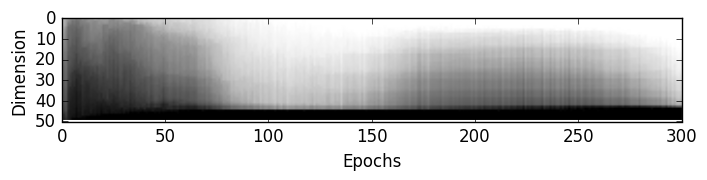
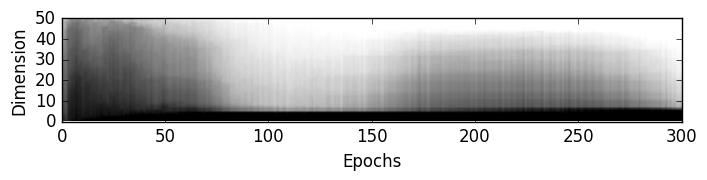
New plots

diff --git a/plots/img/Comparison of Bernoulli and Gaussian.tex b/plots/img/Comparison of Bernoulli and Gaussian.tex
@@ -1,2 +1,2 @@
 \begin{tikzpicture}\begin{semilogyaxis}    [% title={Comparison of Bernoulli and Gaussian},
-    xlabel={Epochs},ylabel={$\mathcal{L}(x)$},    xmin=0.0, xmax=330.0,ymin=97.5071673098, ymax=303.226411102,]    \addplot[color=red,]    coordinates {(0,275.660373729)(1,203.805626831)(2,197.088621965)(3,193.860160966)(4,190.477275141)(5,181.420335444)(6,171.883883612)(7,164.842395436)(8,159.827631531)(9,156.537046453)(10,153.416230358)(11,150.790747015)(12,148.685409352)(13,146.773726973)(14,145.1231652)(15,143.588252785)(16,142.036468894)(17,140.335153614)(18,138.537181452)(19,136.839765306)(20,135.430514402)(21,134.150311862)(22,132.984402202)(23,131.987455084)(24,131.144143954)(25,130.363574538)(26,129.644330181)(27,128.932387016)(28,128.278084731)(29,127.66759724)(30,127.033833271)(31,126.381485346)(32,125.927552712)(33,125.355525374)(34,124.864952698)(35,124.412431849)(36,124.027092299)(37,123.576592074)(38,123.206557895)(39,122.88007069)(40,122.585640772)(41,122.263097617)(42,121.944550407)(43,121.677344222)(44,121.353026442)(45,121.140922089)(46,120.902204451)(47,120.665796162)(48,120.444305586)(49,120.231623091)(50,119.983410908)(51,119.788537598)(52,119.542920296)(53,119.330638303)(54,119.174619113)(55,118.985510296)(56,118.812840965)(57,118.634073334)(58,118.454181643)(59,118.287403079)(60,118.142640658)(61,117.974606434)(62,117.788802782)(63,117.63940413)(64,117.533596289)(65,117.359479648)(66,117.244598652)(67,117.069282837)(68,116.927820823)(69,116.81405229)(70,116.705875244)(71,116.601124739)(72,116.439430029)(73,116.304088509)(74,116.193697385)(75,116.08749269)(76,115.968036333)(77,115.850025149)(78,115.723189489)(79,115.658391862)(80,115.58638418)(81,115.452319489)(82,115.413002888)(83,115.274309346)(84,115.165464228)(85,115.027206324)(86,115.019687486)(87,114.940470637)(88,114.77453795)(89,114.714612926)(90,114.654977861)(91,114.485939914)(92,114.511436268)(93,114.388382166)(94,114.314696128)(95,114.246545036)(96,114.130410475)(97,114.069259976)(98,114.03676909)(99,113.893928944)(100,113.853124279)(101,113.84890453)(102,113.683505388)(103,113.739799472)(104,113.576279033)(105,113.543962583)(106,113.542723403)(107,113.437275363)(108,113.322424427)(109,113.322455417)(110,113.287878252)(111,113.205154377)(112,113.169744956)(113,113.14156189)(114,113.123637002)(115,112.968585177)(116,112.963082372)(117,112.915003135)(118,112.86039566)(119,112.781709248)(120,112.735248496)(121,112.65521999)(122,112.697732738)(123,112.669272405)(124,112.58207883)(125,112.599671992)(126,112.508318814)(127,112.39204121)(128,112.357813748)(129,112.348491128)(130,112.356856745)(131,112.319842626)(132,112.24947532)(133,112.156310813)(134,112.179336354)(135,112.102871011)(136,112.032948234)(137,112.015494954)(138,111.971178617)(139,112.015205702)(140,111.932262365)(141,111.90239839)(142,111.885307839)(143,111.810190679)(144,111.803702642)(145,111.773409396)(146,111.711444369)(147,111.690065904)(148,111.611215931)(149,111.561474138)(150,111.656293682)(151,111.552256581)(152,111.507938205)(153,111.455092094)(154,111.516501853)(155,111.403012834)(156,111.448308633)(157,111.351479811)(158,111.318101127)(159,111.310273396)(160,111.313184787)(161,111.245821769)(162,111.243607594)(163,111.202078261)(164,111.167812847)(165,111.092045482)(166,111.1058346)(167,111.046557978)(168,111.063501199)(169,111.008732106)(170,110.95450058)(171,110.989973935)(172,110.877179787)(173,110.870138522)(174,110.800089638)(175,110.858189753)(176,110.815381206)(177,110.779409707)(178,110.736676358)(179,110.786423437)(180,110.73689098)(181,110.770639094)(182,110.632047299)(183,110.657828938)(184,110.567014451)(185,110.60761845)(186,110.564118403)(187,110.568922383)(188,110.49774206)(189,110.493675301)(190,110.449447604)(191,110.514793202)(192,110.426193182)(193,110.447696811)(194,110.390288585)(195,110.38702455)(196,110.365430783)(197,110.305188058)(198,110.313535364)(199,110.285793055)(200,110.240286546)(201,110.248111947)(202,110.129917339)(203,110.119598444)(204,110.177369468)(205,110.188102056)(206,110.087843781)(207,110.110962746)(208,110.056585499)(209,110.053692239)(210,109.993202029)(211,110.049695462)(212,109.97663387)(213,109.953222601)(214,109.907086404)(215,109.976112754)(216,109.902123635)(217,109.902932046)(218,109.884219666)(219,109.853268183)(220,109.836421148)(221,109.832497087)(222,109.836376426)(223,109.782009277)(224,109.737027616)(225,109.744539309)(226,109.760914168)(227,109.664765001)(228,109.644386985)(229,109.642070743)(230,109.580189251)(231,109.614635329)(232,109.551031772)(233,109.567156885)(234,109.544046548)(235,109.516255618)(236,109.544868331)(237,109.487783272)(238,109.480015883)(239,109.499355066)(240,109.442579984)(241,109.430587172)(242,109.400231947)(243,109.346940252)(244,109.328161524)(245,109.335574604)(246,109.342971497)(247,109.309268632)(248,109.308692696)(249,109.345357444)(250,109.281692657)(251,109.280881916)(252,109.227819339)(253,109.291621704)(254,109.189627186)(255,109.183966023)(256,109.192388014)(257,109.246532357)(258,109.115991128)(259,109.124027613)(260,109.091601937)(261,109.055244002)(262,109.008941983)(263,109.103499589)(264,109.083928625)(265,109.020088723)(266,109.039783311)(267,109.081845148)(268,108.932091148)(269,108.938177962)(270,108.93635222)(271,108.962150629)(272,108.877165624)(273,108.879879525)(274,108.789287109)(275,108.922229267)(276,108.857508545)(277,108.858721549)(278,108.839294531)(279,108.893372609)(280,108.816438779)(281,108.798357766)(282,108.78243404)(283,108.752658567)(284,108.742529228)(285,108.732510404)(286,108.701378229)(287,108.713314334)(288,108.645161147)(289,108.662966281)(290,108.681387801)(291,108.634926841)(292,108.629241402)(293,108.70125824)(294,108.620343142)(295,108.636661835)(296,108.540877366)(297,108.579355427)(298,108.580094383)(299,108.587786338)    };    \addplot[color=green,]    coordinates {(0,272.490611572)(1,202.901853083)(2,196.189926064)(3,191.289400441)(4,181.995367515)(5,173.267305991)(6,167.295961054)(7,163.335480402)(8,159.943898482)(9,156.115177529)(10,152.854324174)(11,150.370292358)(12,148.254619751)(13,146.301885015)(14,144.321816101)(15,142.530696633)(16,140.815922019)(17,139.38766947)(18,138.058327678)(19,136.78470828)(20,135.52705565)(21,134.477105338)(22,133.427274725)(23,132.602908644)(24,131.638221755)(25,130.788126942)(26,129.924913677)(27,129.204415616)(28,128.454557023)(29,127.799208665)(30,127.145378279)(31,126.527531738)(32,125.909343622)(33,125.35120138)(34,124.833819816)(35,124.306297732)(36,123.793961917)(37,123.334043121)(38,122.875714527)(39,122.505240132)(40,122.097466861)(41,121.748713864)(42,121.332719352)(43,121.004989097)(44,120.601573764)(45,120.363764121)(46,120.072022691)(47,119.811264815)(48,119.501179255)(49,119.25887085)(50,119.031938033)(51,118.841980175)(52,118.611134671)(53,118.43614968)(54,118.151553594)(55,118.000266682)(56,117.88663405)(57,117.730736597)(58,117.513216428)(59,117.340234888)(60,117.153676023)(61,117.029371435)(62,116.88360278)(63,116.81410399)(64,116.649108873)(65,116.502202523)(66,116.351005235)(67,116.199551711)(68,116.058525099)(69,115.947613206)(70,115.828476895)(71,115.748161094)(72,115.609333399)(73,115.541033422)(74,115.430051464)(75,115.374380535)(76,115.207419004)(77,115.177707506)(78,115.038045155)(79,114.971102434)(80,114.914781827)(81,114.818225819)(82,114.73587831)(83,114.655551647)(84,114.512499986)(85,114.477842657)(86,114.416686582)(87,114.375812863)(88,114.273178114)(89,114.178211157)(90,114.100426872)(91,114.087660647)(92,113.989559312)(93,113.889638977)(94,113.877468886)(95,113.793899356)(96,113.793894681)(97,113.662336204)(98,113.626652291)(99,113.499898668)(100,113.563158514)(101,113.478803406)(102,113.341573958)(103,113.312388306)(104,113.292232749)(105,113.19990473)(106,113.168552426)(107,113.120637387)(108,113.049743)(109,112.954749825)(110,112.91543206)(111,112.961515753)(112,112.870563493)(113,112.778775274)(114,112.771917697)(115,112.727266388)(116,112.685470123)(117,112.610387476)(118,112.519889429)(119,112.503793182)(120,112.463705209)(121,112.407182035)(122,112.392124648)(123,112.385509616)(124,112.346621191)(125,112.279348103)(126,112.260274797)(127,112.211528764)(128,112.165516177)(129,112.108397661)(130,112.06026413)(131,111.978048623)(132,111.995163172)(133,111.869805034)(134,111.877336606)(135,111.792895633)(136,111.798097063)(137,111.780223472)(138,111.788495331)(139,111.748238401)(140,111.693778437)(141,111.656892076)(142,111.630562647)(143,111.548072205)(144,111.541818903)(145,111.490939151)(146,111.433800548)(147,111.468934174)(148,111.472104867)(149,111.360500072)(150,111.33906189)(151,111.295275921)(152,111.302501359)(153,111.256489535)(154,111.122254264)(155,111.141927435)(156,111.187465973)(157,111.118064547)(158,111.075315011)(159,111.030332406)(160,110.974321955)(161,110.968787564)(162,110.944837411)(163,110.897658192)(164,110.87073453)(165,110.861546617)(166,110.862879084)(167,110.847844724)(168,110.76789032)(169,110.745466322)(170,110.747467291)(171,110.670120739)(172,110.647578139)(173,110.665640398)(174,110.640729342)(175,110.575933006)(176,110.534086692)(177,110.528082067)(178,110.534185708)(179,110.484800845)(180,110.458823159)(181,110.395505954)(182,110.403962028)(183,110.378199296)(184,110.311782851)(185,110.334722235)(186,110.316875194)(187,110.272286072)(188,110.257297474)(189,110.225317341)(190,110.322802762)(191,110.212574074)(192,110.166447601)(193,110.158609494)(194,110.151530498)(195,110.118098699)(196,110.143572665)(197,110.049309706)(198,110.04703777)(199,110.002196406)(200,109.98938625)(201,109.948951971)(202,110.007241974)(203,109.91387963)(204,109.919482658)(205,109.908653842)(206,109.917935125)(207,109.918403293)(208,109.853760612)(209,109.815994915)(210,109.823066434)(211,109.776650085)(212,109.769478316)(213,109.743378032)(214,109.759722151)(215,109.721880993)(216,109.664707558)(217,109.68764138)(218,109.678522589)(219,109.608774733)(220,109.644659452)(221,109.527339894)(222,109.584798112)(223,109.514903523)(224,109.489329459)(225,109.47597401)(226,109.446106193)(227,109.53980269)(228,109.488940971)(229,109.418519162)(230,109.372467318)(231,109.397191897)(232,109.407574837)(233,109.41851593)(234,109.401677191)(235,109.300874453)(236,109.343681752)(237,109.334939964)(238,109.331797693)(239,109.326990412)(240,109.258808732)(241,109.250698423)(242,109.219728324)(243,109.198725003)(244,109.173371041)(245,109.193484983)(246,109.134388913)(247,109.078851665)(248,109.130970334)(249,109.100575617)(250,109.017713859)(251,109.101292392)(252,109.024557648)(253,109.068229356)(254,109.03018785)(255,109.054132219)(256,108.980930231)(257,109.001331038)(258,108.96280942)(259,108.961478549)(260,108.909628809)(261,108.866227389)(262,108.820533961)(263,108.870235804)(264,108.916592102)(265,108.810479473)(266,108.840689836)(267,108.874763031)(268,108.787018322)(269,108.747239741)(270,108.776700342)(271,108.78142198)(272,108.76475991)(273,108.734847384)(274,108.697476807)(275,108.685564686)(276,108.613001473)(277,108.701183555)(278,108.639034202)(279,108.614925371)(280,108.560817663)(281,108.616143272)(282,108.584883492)(283,108.577623166)(284,108.59768287)(285,108.566519651)(286,108.508170055)(287,108.485489918)(288,108.512304674)(289,108.511211409)(290,108.497025618)(291,108.555088154)(292,108.435488836)(293,108.45346885)(294,108.410912906)(295,108.416804504)(296,108.40186504)(297,108.435363991)(298,108.390025607)(299,108.341297011)    };    \legend{Berno,Gauss,}\end{semilogyaxis}\end{tikzpicture}\\
+    xlabel={Epochs},ylabel={$\mathcal{L}(x)$},    xmin=0.0, xmax=330.0,ymin=92.5556732441, ymax=446.604102112,]    \addplot[color=red,]    coordinates {(0,264.441280629)(1,198.356619651)(2,192.436159585)(3,181.88292228)(4,170.867163613)(5,162.992125716)(6,158.524081254)(7,153.932894148)(8,149.911452137)(9,146.580097961)(10,143.728252064)(11,141.037141141)(12,138.570631631)(13,136.372970886)(14,134.325379597)(15,132.500336595)(16,130.871126321)(17,129.356009452)(18,127.971898707)(19,126.734941822)(20,125.497351657)(21,124.439595947)(22,123.45012017)(23,122.597523845)(24,121.760369304)(25,121.092850231)(26,120.448084176)(27,119.904902316)(28,119.36392291)(29,118.862854156)(30,118.50087892)(31,117.988382235)(32,117.637162698)(33,117.266831055)(34,116.858649569)(35,116.516663)(36,116.235720312)(37,115.906768508)(38,115.614068063)(39,115.31957292)(40,115.074554138)(41,114.762385753)(42,114.501882116)(43,114.261472196)(44,114.013497939)(45,113.760223153)(46,113.572592801)(47,113.29693616)(48,113.097699502)(49,112.896285359)(50,112.703451538)(51,112.534344316)(52,112.330035373)(53,112.128076033)(54,111.982370273)(55,111.833869726)(56,111.637882593)(57,111.479892134)(58,111.326744149)(59,111.203077074)(60,111.038512462)(61,110.916051622)(62,110.766563707)(63,110.65089404)(64,110.492657582)(65,110.373103416)(66,110.249482394)(67,110.115731964)(68,109.99644147)(69,109.878812866)(70,109.775324083)(71,109.634529669)(72,109.559145397)(73,109.445472745)(74,109.320581277)(75,109.244318709)(76,109.146542539)(77,109.045235651)(78,108.944406142)(79,108.870623821)(80,108.74620894)(81,108.68357537)(82,108.587148687)(83,108.508367004)(84,108.428299491)(85,108.377628465)(86,108.274904397)(87,108.215070093)(88,108.107207142)(89,108.082712153)(90,107.957791762)(91,107.885240506)(92,107.874081143)(93,107.774433053)(94,107.687143444)(95,107.63011365)(96,107.611140927)(97,107.495306466)(98,107.462627772)(99,107.365913835)(100,107.339672685)(101,107.266658963)(102,107.22216285)(103,107.166845037)(104,107.105922893)(105,107.046152371)(106,107.005534446)(107,106.951648865)(108,106.880565352)(109,106.854399705)(110,106.794855444)(111,106.763020269)(112,106.703687938)(113,106.668937961)(114,106.601654746)(115,106.561210799)(116,106.495546611)(117,106.447004936)(118,106.437038019)(119,106.348604292)(120,106.347453433)(121,106.292754641)(122,106.236165799)(123,106.202416687)(124,106.187918299)(125,106.117115784)(126,106.101480824)(127,106.043606304)(128,106.023886025)(129,105.969436354)(130,105.964091256)(131,105.911135712)(132,105.86270795)(133,105.870225164)(134,105.767693703)(135,105.744643374)(136,105.758845797)(137,105.714368258)(138,105.655033458)(139,105.641385567)(140,105.614113104)(141,105.581705725)(142,105.539112757)(143,105.510583621)(144,105.476887249)(145,105.440138453)(146,105.445337122)(147,105.399370769)(148,105.357715884)(149,105.329335896)(150,105.307112482)(151,105.289525036)(152,105.234197277)(153,105.229070324)(154,105.20831285)(155,105.151071847)(156,105.1411246)(157,105.129370228)(158,105.095529133)(159,105.084275596)(160,105.042046301)(161,105.009904993)(162,104.998100447)(163,104.974266926)(164,104.93239305)(165,104.892173295)(166,104.890742368)(167,104.868025471)(168,104.85551418)(169,104.81427887)(170,104.813642772)(171,104.77356111)(172,104.750256486)(173,104.733592613)(174,104.68709524)(175,104.667044109)(176,104.667854933)(177,104.634924524)(178,104.64095932)(179,104.608868741)(180,104.587649189)(181,104.556419886)(182,104.525155196)(183,104.513777729)(184,104.505319547)(185,104.481649905)(186,104.436392475)(187,104.407857527)(188,104.469331027)(189,104.376140886)(190,104.363132075)(191,104.363238498)(192,104.34758907)(193,104.30443383)(194,104.289089619)(195,104.282533639)(196,104.261895017)(197,104.250397228)(198,104.227165763)(199,104.207602178)(200,104.170897716)(201,104.174600997)(202,104.164283683)(203,104.150617357)(204,104.128893072)(205,104.092258578)(206,104.075724571)(207,104.087209722)(208,104.029951949)(209,104.036403101)(210,104.020640869)(211,104.009712275)(212,103.98694809)(213,103.983077642)(214,103.950611836)(215,103.933232394)(216,103.916490132)(217,103.929296903)(218,103.879854209)(219,103.88473698)(220,103.834719252)(221,103.859805159)(222,103.831793227)(223,103.818233573)(224,103.797998907)(225,103.757128629)(226,103.758065893)(227,103.759830114)(228,103.727329074)(229,103.707931477)(230,103.710236206)(231,103.704472323)(232,103.674412301)(233,103.683378046)(234,103.640059273)(235,103.602581829)(236,103.630522849)(237,103.601974529)(238,103.576733815)(239,103.578803697)(240,103.547068204)(241,103.532769429)(242,103.551075023)(243,103.51092109)(244,103.468415319)(245,103.506135961)(246,103.476072596)(247,103.482724679)(248,103.460180387)(249,103.446728724)(250,103.432438091)(251,103.409496515)(252,103.378862915)(253,103.401112227)(254,103.379215629)(255,103.360722476)(256,103.349105114)(257,103.3508815)(258,103.304165663)(259,103.310064087)(260,103.288380266)(261,103.291818959)(262,103.262840285)(263,103.266642706)(264,103.274717685)(265,103.241352428)(266,103.211669242)(267,103.179503618)(268,103.227792733)(269,103.176346006)(270,103.201589328)(271,103.179954973)(272,103.145690724)(273,103.125769265)(274,103.152660009)(275,103.1216678)(276,103.110800545)(277,103.083517359)(278,103.105228299)(279,103.071753457)(280,103.062483826)(281,103.064295557)(282,103.050972776)(283,103.019537784)(284,103.02247234)(285,103.00129278)(286,102.987354847)(287,102.988847032)(288,102.973827834)(289,102.970682553)(290,102.935659762)(291,102.965902446)(292,102.911485929)(293,102.906138472)(294,102.919145619)(295,102.90329698)(296,102.884802094)(297,102.887694439)(298,102.853640053)(299,102.839636938)    };    \addplot[color=green,]    coordinates {(0,406.003729193)(1,390.939739602)(2,384.54523432)(3,381.838768311)(4,379.759768122)(5,378.267186113)(6,377.267560591)(7,376.348206843)(8,375.579662365)(9,375.048516346)(10,374.609351751)(11,374.216701383)(12,373.866577259)(13,373.565440896)(14,373.319059115)(15,373.116086981)(16,372.93212308)(17,372.773892822)(18,372.669434482)(19,372.504596502)(20,372.41885498)(21,372.329580078)(22,372.231299383)(23,372.134079534)(24,372.090334861)(25,372.015324263)(26,371.884471047)(27,371.865363936)(28,371.796386774)(29,371.741563832)(30,371.674778109)(31,371.634727672)(32,371.582589)(33,371.502061768)(34,371.501245339)(35,371.444502064)(36,371.440941218)(37,371.371742665)(38,371.377627508)(39,371.31529025)(40,371.295935835)(41,371.26621177)(42,371.20323847)(43,371.202149492)(44,371.159871216)(45,371.140474243)(46,371.14647755)(47,371.070274991)(48,371.031648892)(49,371.081435991)(50,371.045891946)(51,371.002709628)(52,370.961609719)(53,370.946009244)(54,370.952441129)(55,370.911104237)(56,370.900569624)(57,370.877404119)(58,370.891667314)(59,370.853477173)(60,370.847278886)(61,370.829388317)(62,370.851452692)(63,370.779978305)(64,370.810793402)(65,370.767765669)(66,370.72699879)(67,370.736319136)(68,370.776238348)(69,370.716379228)(70,370.674620139)(71,370.676075661)(72,370.615640592)(73,370.648289906)(74,370.636204668)(75,370.601516335)(76,370.567452393)(77,370.606661488)(78,370.632338312)(79,370.568280862)(80,370.538198242)(81,370.483640414)(82,370.544183461)(83,370.544202104)(84,370.471667092)(85,370.509069769)(86,370.561665261)(87,370.513296009)(88,370.481637296)(89,370.444348921)(90,370.460461537)(91,370.443092762)(92,370.462338978)(93,370.429670077)(94,370.458904585)(95,370.454886697)(96,370.399512385)(97,370.422553655)(98,370.367223067)(99,370.358451483)(100,370.406783614)(101,370.340309948)(102,370.384053456)(103,370.434330389)(104,370.343586037)(105,370.327331931)(106,370.337170521)(107,370.3213395)(108,370.33544822)(109,370.287293868)(110,370.302190385)(111,370.2948392)(112,370.288230313)(113,370.252630893)(114,370.301730513)(115,370.235750732)(116,370.280508811)(117,370.257764116)(118,370.270446722)(119,370.209195168)(120,370.24347684)(121,370.227830644)(122,370.207783813)(123,370.195554754)(124,370.224240057)(125,370.217907826)(126,370.229621915)(127,370.194501454)(128,370.202709129)(129,370.179134577)(130,370.20087763)(131,370.174820279)(132,370.147938787)(133,370.134144897)(134,370.147430253)(135,370.145547763)(136,370.105337191)(137,370.161078769)(138,370.077486572)(139,370.16130532)(140,370.06839755)(141,370.124783325)(142,370.094960105)(143,370.139419445)(144,370.097701139)(145,370.100525901)(146,370.143301003)(147,370.105321655)(148,370.07771673)(149,370.137167414)(150,370.090415483)(151,370.101734675)(152,370.068199185)(153,370.083830733)(154,370.081583196)(155,370.086565996)(156,370.052335261)(157,370.02979753)(158,370.017346025)(159,370.037857999)(160,370.047184837)(161,370.014314908)(162,370.025267278)(163,370.021092585)(164,369.99633728)(165,369.986302157)(166,370.012848622)(167,369.971484375)(168,369.988048429)(169,369.98106523)(170,369.970600697)(171,369.977597268)(172,369.96486711)(173,369.993229093)(174,369.948671043)(175,369.978321866)(176,369.957537675)(177,369.98084345)(178,369.943227539)(179,369.921962502)(180,369.946230691)(181,369.976184637)(182,369.893339677)(183,369.976866233)(184,369.929182795)(185,369.950832575)(186,369.929775613)(187,369.937298251)(188,369.915333696)(189,369.905003995)(190,369.930191872)(191,369.942003063)(192,369.877530629)(193,369.930859042)(194,369.908915572)(195,369.902914151)(196,369.91256098)(197,369.88914806)(198,369.898595692)(199,369.880836293)(200,369.931452526)(201,369.897385365)(202,369.912643987)(203,369.864959384)(204,369.897603538)(205,369.906336226)(206,369.886783447)(207,369.86219488)(208,369.825184271)(209,369.908119285)(210,369.845081121)(211,369.849126199)(212,369.843999523)(213,369.831956399)(214,369.851669755)(215,369.861633079)(216,369.827253806)(217,369.835707397)(218,369.796921276)(219,369.847068481)(220,369.782892456)(221,369.82677862)(222,369.828237582)(223,369.866682351)(224,369.824126143)(225,369.81707464)(226,369.816195179)(227,369.826950795)(228,369.793815585)(229,369.792368663)(230,369.755177668)(231,369.803535156)(232,369.782006559)(233,369.755731922)(234,369.792746305)(235,369.763325528)(236,369.787186612)(237,369.740280429)(238,369.813177379)(239,369.771820457)(240,369.802965754)(241,369.749562711)(242,369.774524592)(243,369.746097745)(244,369.768768422)(245,369.815776367)(246,369.728163619)(247,369.754583019)(248,369.752389471)(249,369.748848211)(250,369.742936679)(251,369.74863481)(252,369.753147749)(253,369.751789495)(254,369.722884022)(255,369.767100664)(256,369.746748269)(257,369.736292114)(258,369.708355935)(259,369.72956776)(260,369.732071089)(261,369.705545821)(262,369.692340365)(263,369.71375061)(264,369.681090421)(265,369.704867942)(266,369.693760986)(267,369.71161954)(268,369.722984397)(269,369.741091253)(270,369.745334195)(271,369.704395807)(272,369.680385853)(273,369.675386242)(274,369.685295688)(275,369.674346203)(276,369.692077193)(277,369.719304643)(278,369.692321333)(279,369.655731479)(280,369.631802979)(281,369.686782227)(282,369.658116566)(283,369.656245228)(284,369.731848366)(285,369.705967463)(286,369.681227084)(287,369.659715854)(288,369.683410312)(289,369.651943248)(290,369.681238847)(291,369.654617587)(292,369.651562888)(293,369.653493486)(294,369.631222812)(295,369.661070113)(296,369.64445368)(297,369.702831643)(298,369.624187955)(299,369.650165905)    };    \legend{Berno,Gauss,}\end{semilogyaxis}\end{tikzpicture}\\

diff --git a/plots/plot_maker.py b/plots/plot_maker.py
@@ -59,10 +59,10 @@ def plot_tests(trial_parameters,xlabel='Epochs',ylabel='$\mathcal{L}(x)$',title=
         #Feed the parameters into the parser to get a clean list of coordinate pairs
         if force_distro:
             if force_distro==1:
-                data=test_points(*trial_parameters[trial_name],trial_range=trial_range,force_distro='bernoulli')
+                data=test_points(*trial_parameters[trial_name],trial_range=trial_range,force_distro='gaussian')
                 force_distro+=1
             else:
-                data=test_points(*trial_parameters[trial_name],trial_range=trial_range,force_distro='gaussian')
+                data=test_points(*trial_parameters[trial_name],trial_range=trial_range,force_distro='bernoulli')
         else:
             data=test_points(*trial_parameters[trial_name],trial_range=trial_range)
         #Element 0 is data, elements 1, 2, and 3 are xmax, ymax, and ymin
@@ -137,12 +137,12 @@ def shade_tests(trial_parameters,xlabel='Epochs',ylabel='Dimension',title='Activ
     #Go through everything in sorted order. Not really important for these, but convenient
     for trial_name in sorted(trials.keys()):
         #Transpose is necessary just for orientation. Sort bunches together all of the shaded layers
-        grid=np.sort(trials[trial_name]['covar'].T,0)
+        grid=np.flipud(np.sort(trials[trial_name]['covar'].T,0))
         if log_scale:
             grid=np.log(grid)
         #vmin and vmax force the scaling parameters for consistency. These have no basis
-        im = plt.imshow(grid,cmap="Greys",origin="lower",vmin=-8,vmax=0)
-        plt.axis([0,max_epochs,trial_parameters[trial_name][0],0])
+        im = plt.imshow(grid,cmap="Greys",origin='lower',vmin=-8,vmax=0)
+        plt.axis([0,max_epochs,0,trial_parameters[trial_name][0]])
         #Colorbar indexes the shades to activity values. The default vertical looks best
         #cb=plt.colorbar(im, orientation='horizontal')
         #cb=plt.colorbar(im)
@@ -280,8 +280,8 @@ if __name__=='__main__':
     #TESTS GO HERE
 
     
-    plot_tests({'Berno':(50,1.0,1,0,0),
-                'Gauss':(50,1.0,1,0,0)},
+    plot_tests({'Berno':(50,1.0,0,0,0),
+                'Gauss':(50,1.0,0,0,0)},
                 axis='semilogyaxis',trial_range=[0],bvsg=True,
                title="Comparison of Bernoulli and Gaussian")
     
